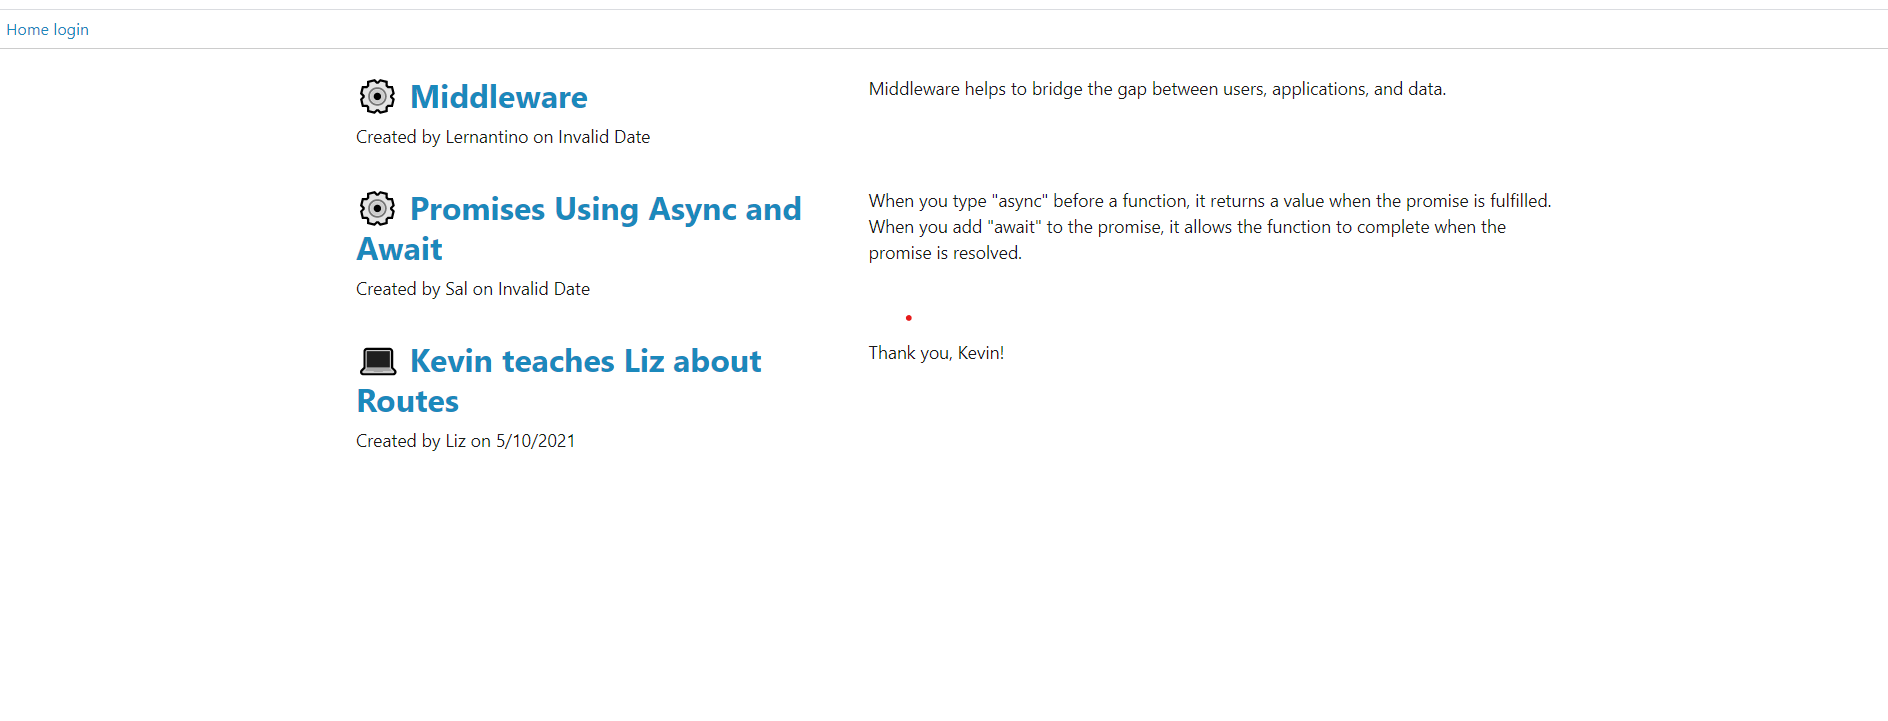
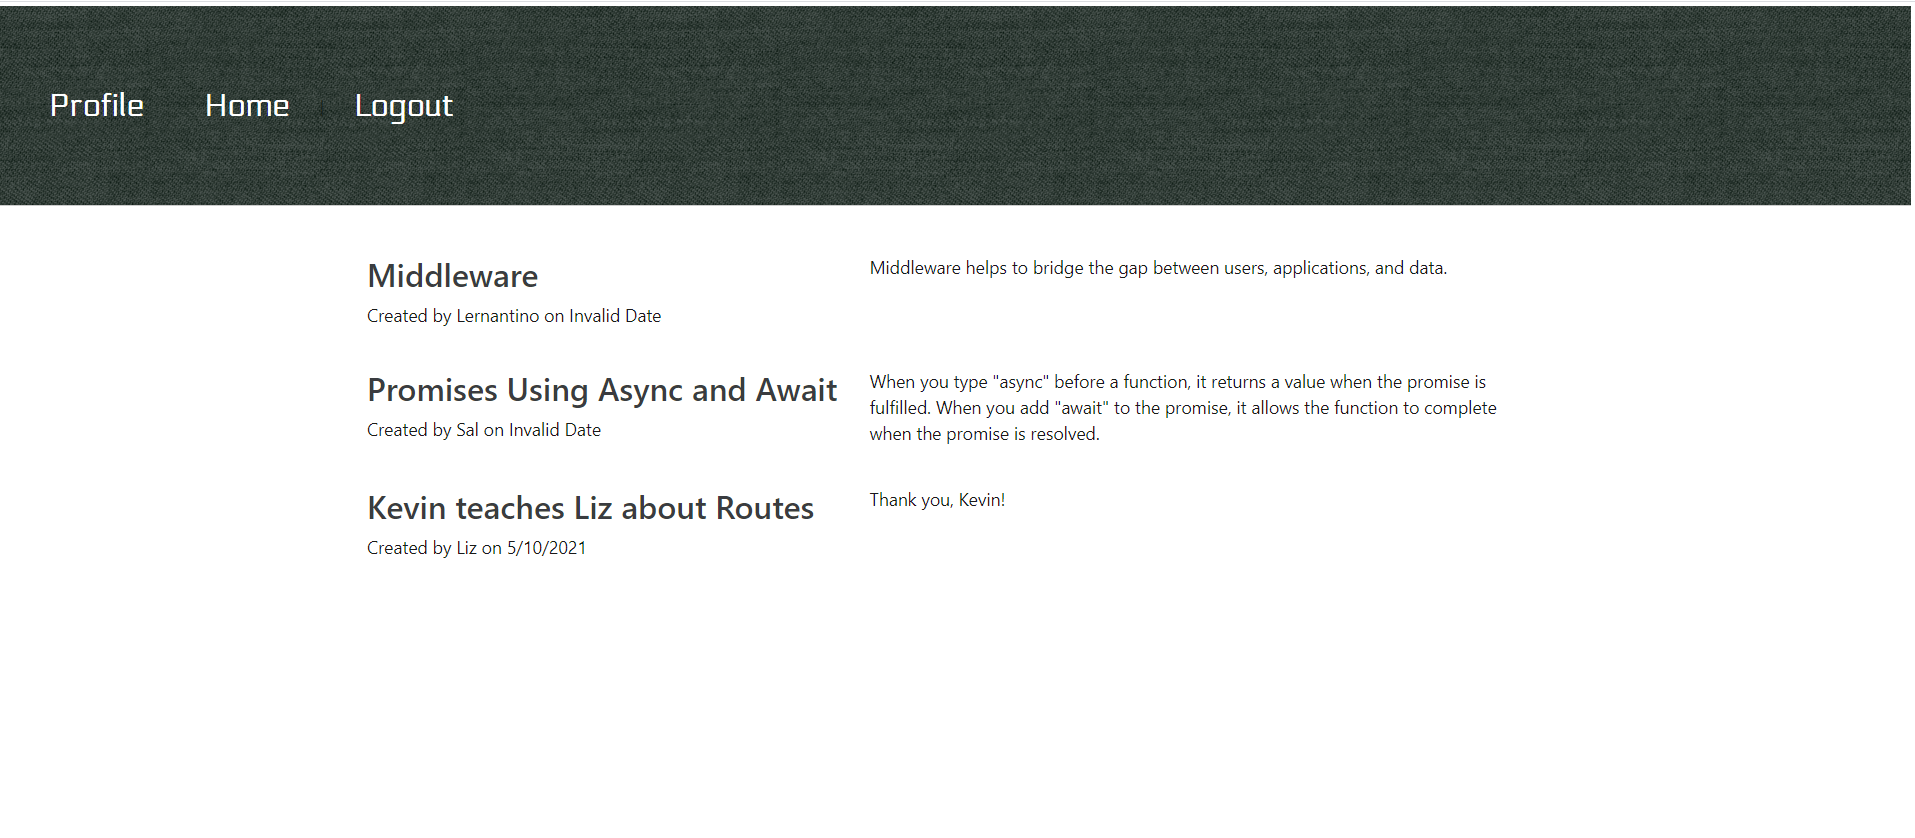
modified readme to add current screenshot with styling

Changed region(s): [[0.0, 0.0, 1.0, 0.4272], [0.1875, 0.4272, 0.7812, 0.6713]]

diff --git a/README.md b/README.md
@@ -17,7 +17,7 @@ _____________________________________________________
   - [License](#license)
 ______________________________________________________
 
-![image](https://user-images.githubusercontent.com/77338531/117726960-606ec080-b1b5-11eb-8812-8f16df73d1c7.png)
+![image](https://user-images.githubusercontent.com/77338531/117738719-b9951f00-b1ca-11eb-81b2-30d9fefbb9ee.png)
 
 Heroku Deployed URL:  https://immense-cove-53002.herokuapp.com/  
 GitHub Repository URL:  https://github.com/uknity/MVC_Tech_Blog  
